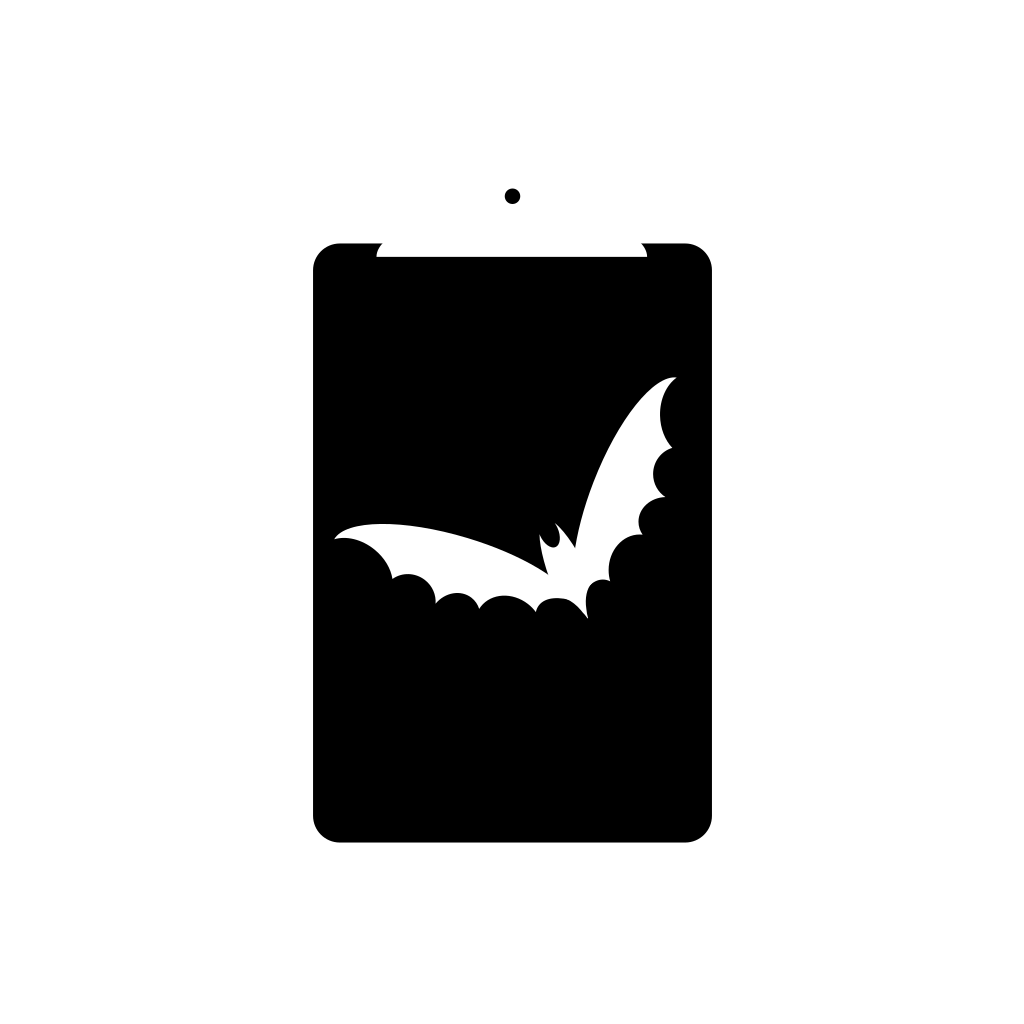
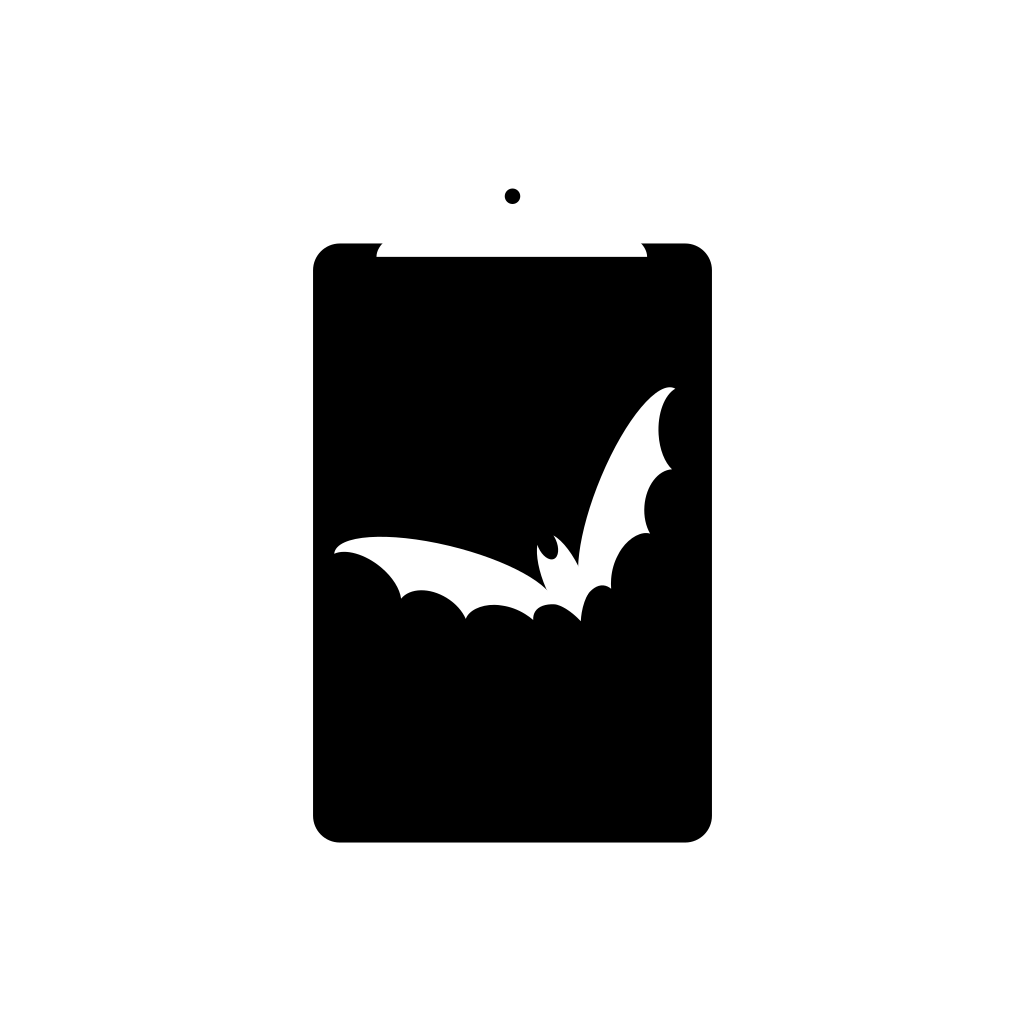
remove bat photos, use shared bat illustration

Changed region(s): [[0.3125, 0.4375, 0.5938, 0.625], [0.5938, 0.375, 0.6562, 0.5312], [0.5938, 0.5312, 0.625, 0.5625]]

diff --git a/apps/mobile/src/data/bats.ts b/apps/mobile/src/data/bats.ts
@@ -12,7 +12,6 @@ export const bats: Bat[] = [
         group: "Pipistrelle",
         frequencyRange: "42-48 kHz",
         info: "Peak ~45 kHz. Fast, erratic flight at low-medium height. Rapid, dry clicks. Common around buildings, gardens, hedgerows and woodland edges. Distinguish from Soprano Pipistrelle by lower peak frequency.",
-        image: require("@assets/images/bats/soprano.jpg")
     },
 
     {
@@ -22,7 +21,6 @@ export const bats: Bat[] = [
         group: "Pipistrelle",
         frequencyRange: "52-60 kHz",
         info: "Peak ~55 kHz. Fast, erratic flight, often low-medium height. Similar call rhythm to Common Pipistrelle but noticeably higher frequency. Frequently recorded around water, woodland edges, gardens and buildings.",
-        image: require("@assets/images/bats/soprano.jpg")
     },
 
     {
@@ -32,38 +30,34 @@ export const bats: Bat[] = [
         group: "Pipistrelle",
         frequencyRange: "30-45 kHz",
         info: "Peak ~38 kHz. Larger than Common and Soprano Pipistrelles. Fast flight, often around water, woodland edges and open areas. Lower-frequency call than Common Pipistrelle.",
-        image: require("@assets/images/bats/narthuseus.jpg")
     },
 
     // Myotis
     {
         id: "daubenton",
-        species: "Daubentons",
+        species: "Daubenton's",
         abr: "Daub (M)",
         group: "Myotis",
         frequencyRange: "35-85 kHz",
         info: "Typically peaks ~45-50 kHz. Usually flies very low over water, often appearing to skim the surface. Rapid, regular 'machine-gun' rhythm. Strong association with rivers, lakes and canals.",
-        image: require("@assets/images/bats/daubenton.jpg")
     },
 
     {
         id: "natterers",
-        species: "Natterers",
+        species: "Natterer's",
         abr: "Nat (M)",
         group: "Myotis",
         frequencyRange: "35-80 kHz",
         info: "Broadband calls typically peaking around ~50 kHz. Quiet, irregular and often difficult to detect. Agile flight, often close to vegetation. Look for woodland, parkland, farmland and water-edge habitat.",
-        image: require("@assets/images/bats/Natterers.webp")
     },
 
     {
         id: "brandt",
-        species: "Brandts",
+        species: "Brandt's",
         abr: "Bran (M)",
         group: "Myotis",
         frequencyRange: "33-89 kHz",
         info: "Typically peaks around ~45 kHz. Quiet, broadband calls with a relatively rapid rhythm. Agile flight, often around woodland and mature trees. Very difficult to distinguish acoustically from Whiskered and Alcathoe bats.",
-        image: require("@assets/images/bats/brandt.jpg")
     },
 
     {
@@ -73,17 +67,15 @@ export const bats: Bat[] = [
         group: "Myotis",
         frequencyRange: "32-89 kHz",
         info: "Typically peaks around ~45 kHz. Quiet, broadband calls with dry, rapid clicks. Agile flight around woodland, hedgerows and open areas. Acoustic separation from Brandt's and Alcathoe is difficult.",
-        image: require("@assets/images/bats/whiskered.jpg")
     },
 
     {
         id: "bechstein",
-        species: "Bechsteins",
+        species: "Bechstein's",
         abr: "Bech (M)",
         group: "Myotis",
         frequencyRange: "35-80 kHz",
         info: "Typically peaks around ~50 kHz. Very quiet calls, making it difficult to detect. Slow-medium, manoeuvrable flight close to woodland vegetation. Strongly associated with mature woodland.",
-        image: require("@assets/images/bats/bechstein.jpg")
     },
 
     {
@@ -93,7 +85,6 @@ export const bats: Bat[] = [
         group: "Myotis",
         frequencyRange: "43-120 kHz",
         info: "Very quiet, high-frequency Myotis calls, often peaking around ~45 kHz. Small, agile bat strongly associated with mature woodland and wet woodland. Extremely difficult to distinguish acoustically from Brandt's and Whiskered.",
-        image: require("@assets/images/bats/alacthoe.jpg")
     },
 
     // Long-eared
@@ -104,7 +95,6 @@ export const bats: Bat[] = [
         group: "Long-eared",
         frequencyRange: "25-50 kHz",
         info: "Very quiet calls, typically around ~35 kHz. Slow, fluttering flight close to vegetation; frequently gleans insects from leaves. Strongly associated with woodland, mature gardens and buildings. Large ears are distinctive if seen, but echolocation is easily missed.",
-        image: require("@assets/images/bats/brown long eared.jpeg")
     },
 
     {
@@ -114,7 +104,6 @@ export const bats: Bat[] = [
         group: "Long-eared",
         frequencyRange: "30-63 kHz",
         info: "Very quiet calls, broadly overlapping Brown Long-eared. Often flies slowly close to vegetation and forages in open habitats and woodland edges. Very difficult to separate acoustically from Brown Long-eared; geographic location and visual identification are important.",
-        image: require("@assets/images/bats/grey long eared.jpg")
     },
 
     // Nyctalus
@@ -125,7 +114,6 @@ export const bats: Bat[] = [
         group: "Nyctalus",
         frequencyRange: "20-45 kHz",
         info: "Peak typically ~25 kHz. Loud, distinctive 'chip-chop' calls with a regular rhythm. Very fast, powerful flight, usually high above ground level. Often seen in open areas, woodland edges and over parks shortly after sunset.",
-        image: require("@assets/images/bats/noctule.jpg")
     },
 
     {
@@ -135,7 +123,6 @@ export const bats: Bat[] = [
         group: "Nyctalus",
         frequencyRange: "15-45 kHz",
         info: "Peak typically ~25 kHz. Loud 'chip-chop' calls, similar to Noctule but often slightly higher-pitched and less powerful. Fast, high flight over woodland edges, fields and open areas. Can be difficult to separate from Noctule acoustically.",
-        image: require("@assets/images/bats/leislers.jpg")
     },
     // Horseshoe
     {
@@ -145,7 +132,6 @@ export const bats: Bat[] = [
         group: "Horseshoe",
         frequencyRange: "78-84 kHz",
         info: "Constant-frequency call around ~82 kHz, producing a continuous tone rather than typical FM clicks. Large bat with broad wings. Flight is relatively slow and manoeuvrable. Associated with woodland, pasture, hedgerows and underground roosts.",
-        image: require("@assets/images/bats/greater horseshoe.webp")
     },
 
     {
@@ -155,7 +141,6 @@ export const bats: Bat[] = [
         group: "Horseshoe",
         frequencyRange: "105-115 kHz",
         info: "Constant-frequency call around ~110 kHz, producing a continuous tone. Very small bat with rapid, agile flight, often close to vegetation. Usually associated with woodland, valleys and sheltered countryside. The very high call frequency is highly distinctive.",
-        image: require("@assets/images/bats/lesser horseshoe.jpg")
     },
     // Other
     {
@@ -165,7 +150,6 @@ export const bats: Bat[] = [
         group: "Other",
         frequencyRange: "15-65 kHz",
         info: "Peak typically ~25-30 kHz. Loud, irregular 'tock' or 'clap'-like calls. Large bat with broad wings and relatively slow, deliberate flight. Often flies around buildings, woodland edges, parks and open countryside.",
-        image: require("@assets/images/bats/serotine.jpg")
     },
     {
         id: "barbastelle",
@@ -174,7 +158,6 @@ export const bats: Bat[] = [
         group: "Other",
         frequencyRange: "25-40 kHz",
         info: "Typically around ~32 kHz. Very distinctive, quiet 'smacking' calls, often occurring in pairs. Fast, agile flight, frequently close to woodland edges and vegetation. Strongly associated with mature woodland.",
-        image: require("@assets/images/bats/barbastelle.jpg")
     },
 
 

diff --git a/apps/mobile/src/components/BatItem.tsx b/apps/mobile/src/components/BatItem.tsx
@@ -1,13 +1,13 @@
-import { Image, ImageSourcePropType, Modal, Pressable, StyleSheet, Text, TouchableOpacity, View } from "react-native";
+import { Modal, Pressable, StyleSheet, Text, TouchableOpacity, View } from "react-native";
 import { ChevronRight, Info as InfoTooltip } from "@components/icons"
-import { textStyles } from "@theme/fonts";
+import { fonts, textStyles } from "@theme/fonts";
 import { colours } from "@theme/colours";
 import { LinearGradient } from "expo-linear-gradient";
 import { useState } from "react";
+import BatIcon from "@assets/illustrations/bat.svg"
 
 export interface Bat {
     id: string,
-    image: ImageSourcePropType,
     species: string,
     abr: string,
     group: "Pipistrelle" | "Myotis" | "Long-eared" | "Nyctalus" | "Horseshoe" | "Other",
@@ -26,7 +26,7 @@ export const BatItem = ({ bat, onPress }: BatItemProps) => {
     return (
         <TouchableOpacity onPress={onPress} accessibilityRole="button" testID={bat.species} accessibilityLabel={bat.species} style={styles.container}>
             <View style={styles.batItem}>
-                <Image source={bat.image} style={styles.batImage} />
+                <BatIcon width="50%" height="50%" style={styles.batImage} />
                 <TouchableOpacity accessibilityRole="button" accessibilityLabel="Bat Info" hitSlop={{ top: 12, bottom: 12, left: 12, right: 12 }} style={styles.infoTooltip} onPress={() => setIsFullScreen(true)}>
                     <InfoTooltip width={20} />
                 </TouchableOpacity>
@@ -45,15 +45,16 @@ export const BatItem = ({ bat, onPress }: BatItemProps) => {
                     </Pressable>
                 </Modal>
                 <LinearGradient
-                    colors={["transparent", colours.cardbackground]}
+                    colors={["transparent", colours.dark]}
                     style={styles.gradient}
                 />
                 <View style={styles.labelContainer}>
                     <Text style={styles.speciesLabel}>{bat.species}</Text>
                     <View style={styles.labelRow} >
                         <Text style={styles.frequencyLabel}>{bat.frequencyRange}</Text>
-                        <ChevronRight />
+
                     </View>
+                    <ChevronRight style={styles.chevron} />
                 </View>
             </View>
         </TouchableOpacity>
@@ -70,14 +71,16 @@ const styles = StyleSheet.create({
         aspectRatio: 1,
         width: "100%",
         alignContent: "center",
+        backgroundColor: colours.cardbackground,
+        borderWidth: 0.5,
+        borderColor: colours.inputBorder
     },
     batImage: {
-        resizeMode: "cover",
-        width: "100%",
-        height: "100%"
+        alignSelf: "center",
+        marginRight: 16
     },
     gradient: {
-        height: "50%",
+        height: "70%",
         width: "100%",
         position: "absolute",
         bottom: 0
@@ -87,24 +90,30 @@ const styles = StyleSheet.create({
         bottom: 0,
         left: 0,
         right: 0,
-        padding: 16,
+        padding: 8,
         gap: 4,
     },
     labelRow: {
         flexDirection: "row",
         justifyContent: "space-between",
         alignItems: "center",
-        gap: 12,
+    },
+    chevron: {
+        position: "absolute",
+        right: 8,
+        bottom: 8
     },
     speciesLabel: {
         ...textStyles.buttonLabel,
         textAlign: "left",
         color: colours.light,
+
     },
     frequencyLabel: {
         ...textStyles.buttonLabel,
         textAlign: "left",
         color: colours.placeholderText,
+        fontSize: fonts.size.sm
     },
     infoTooltip: {
         position: 'absolute',
@@ -132,7 +141,7 @@ const styles = StyleSheet.create({
     infoFrequency: {
         ...textStyles.subtitle,
         textAlign: "left",
-        color: colours.placeholderText,
+        color: colours.placeholderText
     },
     infoText: {
         ...textStyles.subtitle,

diff --git a/apps/mobile/src/components/BatGrid.tsx b/apps/mobile/src/components/BatGrid.tsx
@@ -10,8 +10,8 @@ const groups = ["Pipistrelle", "Myotis", "Long-eared", "Nyctalus", "Horseshoe", 
 export const BatGrid = ({ bats, onPress }: BatGridProps) => {
     return (
         groups.map((group) => (
-            <View key={group}>
-                <Button label={group} onPress={() => onPress(group)} />
+            <View key={group} style={styles.content}>
+                <Button label={group} onPress={() => onPress(group)} action="right arrow" />
                 <View key={group} style={styles.grid}>
                     {bats
                         .filter((bat) => bat.group === group)
@@ -30,14 +30,19 @@ export const BatGrid = ({ bats, onPress }: BatGridProps) => {
 }
 
 const styles = StyleSheet.create({
+    content: {
+        justifyContent: "center",
+    },
     grid: {
+        paddingHorizontal: 4,
         paddingVertical: 16,
-        rowGap: 16,
+        rowGap: 8,
         flexDirection: "row",
         flexWrap: "wrap",
-        justifyContent: "space-between",
+        justifyContent: "flex-start",
     },
     cell: {
-        width: "48%"
+        width: "33.3333%",
+        paddingHorizontal: 4,
     }
 })

diff --git a/apps/mobile/.rnstorybook/stories/BatGrid.stories.tsx b/apps/mobile/.rnstorybook/stories/BatGrid.stories.tsx
@@ -2,15 +2,20 @@ import type { Meta, StoryObj } from '@storybook/react-native';
 import { BatGrid } from '@components/BatGrid';
 import { View } from 'react-native';
 import { bats } from '../../src/data/bats';
+import { colours } from '@theme/colours';
+import { ScrollView } from 'react-native-gesture-handler';
+import { screen } from '@theme/screen';
 
 const meta = {
     title: 'Components/BatGrid',
     component: BatGrid,
     decorators: [
         (Story) => (
-            <View style={{ flex: 1, alignItems: 'flex-start' }}>
-                <Story />
-            </View>
+            <ScrollView style={screen.scroll} contentContainerStyle={screen.scrollContent} keyboardShouldPersistTaps="handled">
+                <View style={{ flex: 1, alignItems: 'flex-start', backgroundColor: colours.dark }}>
+                    <Story />
+                </View>
+            </ScrollView >
         ),
     ],
     // This component will have an automatically generated Autodocs entry: https://storybook.js.org/docs/writing-docs/autodocs

diff --git a/apps/mobile/tests/unit/components/BatGrid.test.tsx b/apps/mobile/tests/unit/components/BatGrid.test.tsx
@@ -3,8 +3,8 @@ import { BatGrid } from '@components/BatGrid';
 import { Bat } from '@components/BatItem';
 
 const bats: Bat[] = [
-    { id: 'noctule', species: 'Noctule', abr: 'Noc', image: { uri: 'file://noctule.png' }, group: 'Nyctalus', frequencyRange: '20-45 kHz', info: 'A large, fast-flying bat.' },
-    { id: 'common-pip', species: 'Common Pipistrelle', abr: 'CP', image: { uri: 'file://common-pip.png' }, group: 'Pipistrelle', frequencyRange: '45-70 kHz', info: 'A small, common bat.' },
+    { id: 'noctule', species: 'Noctule', abr: 'Noc', group: 'Nyctalus', frequencyRange: '20-45 kHz', info: 'A large, fast-flying bat.' },
+    { id: 'common-pip', species: 'Common Pipistrelle', abr: 'CP', group: 'Pipistrelle', frequencyRange: '45-70 kHz', info: 'A small, common bat.' },
 ];
 
 describe('BatGrid', () => {

diff --git a/apps/mobile/tests/unit/components/BatItem.test.tsx b/apps/mobile/tests/unit/components/BatItem.test.tsx
@@ -6,7 +6,6 @@ const bat: Bat = {
     id: 'noctule',
     species: 'Noctule',
     abr: 'Noc',
-    image: { uri: 'file://noctule.png' },
     group: 'Nyctalus',
     frequencyRange: '20-45 kHz',
     info: 'A large, fast-flying bat.',

diff --git a/apps/mobile/.rnstorybook/stories/BatItem.stories.tsx b/apps/mobile/.rnstorybook/stories/BatItem.stories.tsx
@@ -23,7 +23,6 @@ export default meta;
 type Story = StoryObj<typeof meta>;
 
 const bat = {
-    image: require("@assets/images/bats/alacthoe.jpg"),
     species: 'Alcathoe'
 } as Bat;
 
